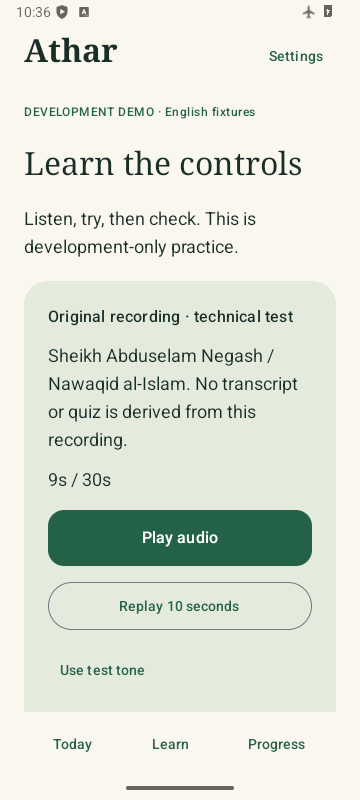
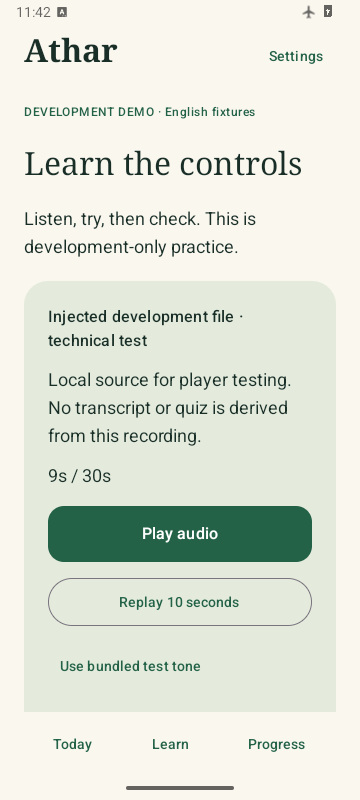
Honor selected local audio and isolate resume positions

diff --git a/app/src/main/java/dev/elm/prototype/MainActivity.kt b/app/src/main/java/dev/elm/prototype/MainActivity.kt
@@ -63,32 +63,58 @@ enum class Direction { Garden, Editorial }
  var feedback by rememberSaveable { mutableStateOf(false) }
  var busy by remember { mutableStateOf(false) }
  var error by remember { mutableStateOf<String?>(null) }
- var imported by remember { mutableStateOf(prefs.getString("audio-uri",null)) }
- var sourceAudio by rememberSaveable { mutableStateOf(prefs.getBoolean("source-audio", false)) }
+ val sourceFile=File(context.filesDir,"representative.mp3")
+ val audioStore=remember { AudioResumeStore(prefs) }
+ var imported by remember { mutableStateOf(audioStore.documentUri()) }
+ var activeSource by rememberSaveable { mutableStateOf(audioStore.selected(sourceFile.exists())) }
  var fullRecording by rememberSaveable { mutableStateOf(prefs.getBoolean("full-recording", false)) }
+ val sourceAudio=activeSource != AudioSource.Tone
+ var loadedKey by remember { mutableStateOf<String?>(null) }
+ var selectionRevision by remember { mutableIntStateOf(0) }
  val player=remember { ExoPlayer.Builder(context).build().apply { setAudioAttributes(AudioAttributes.Builder().setUsage(C.USAGE_MEDIA).setContentType(C.AUDIO_CONTENT_TYPE_SPEECH).build(), true); setHandleAudioBecomingNoisy(true) } }
  var playing by remember { mutableStateOf(false) }
  var position by remember { mutableLongStateOf(0L) }
  var duration by remember { mutableLongStateOf(0L) }
- val sourceFile=File(context.filesDir,"representative.mp3")
- val sourceUri=if(sourceFile.exists()) Uri.fromFile(sourceFile) else imported?.let { Uri.parse(it) }
- val launcher=rememberLauncherForActivityResult(ActivityResultContracts.OpenDocument()) { uri -> if(uri!=null) { try { context.contentResolver.takePersistableUriPermission(uri, Intent.FLAG_GRANT_READ_URI_PERMISSION); prefs.edit().putString("audio-uri",uri.toString()).commit(); imported=uri.toString(); sourceAudio=true; error=null } catch(e:Exception) { error="Audio access failed. Select the file again." } } }
+ val sourceUri=when(activeSource) {
+  AudioSource.Tone -> Uri.parse("asset:///neutral-tone.wav")
+  AudioSource.Document -> imported?.let(Uri::parse)
+  AudioSource.Representative -> if(sourceFile.exists()) Uri.fromFile(sourceFile) else null
+ }
+ val launcher=rememberLauncherForActivityResult(ActivityResultContracts.OpenDocument()) { uri -> if(uri!=null) { try { context.contentResolver.takePersistableUriPermission(uri, Intent.FLAG_GRANT_READ_URI_PERMISSION); audioStore.chooseDocument(uri.toString()); imported=uri.toString(); activeSource=AudioSource.Document; selectionRevision++; error=null } catch(e:Exception) { error="Audio access failed. Select the file again." } } }
  DisposableEffect(player) { val listener=object: Player.Listener {
   override fun onIsPlayingChanged(value:Boolean) { playing=value }
-  override fun onPlayerError(e: PlaybackException) { error="Audio could not be opened. Re-select the original or use the bundled test tone." }
+  override fun onPlayerError(e: PlaybackException) { error="Audio could not be opened. Re-select the local recording or use the bundled test tone." }
  }; player.addListener(listener); onDispose { player.removeListener(listener); player.release() } }
- LaunchedEffect(sourceAudio, imported, fullRecording) {
-  val uri=if(sourceAudio) sourceUri else Uri.parse("asset:///neutral-tone.wav")
-  if(uri!=null) { val item=MediaItem.Builder().setUri(uri).apply { if(sourceAudio && !fullRecording) setClippingConfiguration(MediaItem.ClippingConfiguration.Builder().setStartPositionMs(0).setEndPositionMs(30000).build()) }.build()
-   val mediaKey=uri.toString()+":"+fullRecording
-   val resume=if(prefs.getString("media-key",null)==mediaKey) prefs.getLong("audio-position",0) else 0
-   player.setMediaItem(item); player.prepare(); player.seekTo(resume); error=null
-   prefs.edit().putString("media-key",mediaKey).putBoolean("source-audio",sourceAudio).putBoolean("full-recording",fullRecording).commit()
+ LaunchedEffect(activeSource, imported, fullRecording, selectionRevision) {
+  audioStore.save(loadedKey, player.currentPosition)
+  player.pause()
+  // Resolve only the explicit selection. A missing grant/file must never play another source.
+  val uri=sourceUri
+  val accessible=try {
+   when(activeSource) {
+    AudioSource.Tone -> true
+    AudioSource.Document -> uri!=null && context.contentResolver.openFileDescriptor(uri,"r")?.use { true } == true
+    AudioSource.Representative -> sourceFile.isFile
+   }
+  } catch(_:Exception) { false }
+  if(uri==null || !accessible) {
+   player.clearMediaItems(); loadedKey=null; position=0; duration=0
+   error="Selected recording is unavailable. Select the local recording again."
+  } else {
+   val item=MediaItem.Builder().setUri(uri).apply {
+    if(sourceAudio && !fullRecording) setClippingConfiguration(
+     MediaItem.ClippingConfiguration.Builder().setStartPositionMs(0).setEndPositionMs(30000).build())
+   }.build()
+   val key=audioStore.key(activeSource,uri.toString(),fullRecording)
+   val resume=audioStore.position(key,uri.toString()+":"+fullRecording)
+   player.setMediaItem(item); player.prepare(); player.seekTo(resume)
+   loadedKey=key; error=null; audioStore.select(activeSource)
+   prefs.edit().putBoolean("full-recording",fullRecording).commit()
   }
  }
  LaunchedEffect(player) { while(true) { position=player.currentPosition; duration=player.duration.coerceAtLeast(0); delay(500) } }
  DisposableEffect(Unit) { val owner=context as ComponentActivity
-  val obs=androidx.lifecycle.LifecycleEventObserver { _,event -> if(event==androidx.lifecycle.Lifecycle.Event.ON_STOP) { prefs.edit().putLong("audio-position",player.currentPosition).commit(); player.pause() } }
+  val obs=androidx.lifecycle.LifecycleEventObserver { _,event -> if(event==androidx.lifecycle.Lifecycle.Event.ON_STOP) { audioStore.save(loadedKey,player.currentPosition); player.pause() } }
   owner.lifecycle.addObserver(obs); onDispose { owner.lifecycle.removeObserver(obs) }
  }
  val scroll=rememberScrollState()
@@ -109,14 +135,17 @@ enum class Direction { Garden, Editorial }
     "Lesson" -> {
      LessonHeader()
      Panel {
-      Text(if(sourceAudio) "Original recording · technical test" else "Bundled test tone · no speech",style=MaterialTheme.typography.titleMedium)
-      Note(if(sourceAudio) "Sheikh Abduselam Negash / Nawaqid al-Islam. No transcript or quiz is derived from this recording." else "A locally generated tone for offline player testing. No teaching content.")
+      Text(if(activeSource==AudioSource.Document) "Selected local recording · technical test" else if(activeSource==AudioSource.Representative) "Injected development file · technical test" else "Bundled test tone · no speech",style=MaterialTheme.typography.titleMedium)
+      Note(if(sourceAudio) "Local source for player testing. No transcript or quiz is derived from this recording." else "A locally generated tone for offline player testing. No teaching content.")
       Text("${position/1000}s / ${duration/1000}s")
-      Action(if(playing) "Pause audio" else "Play audio") { if(playing) { prefs.edit().putLong("audio-position",player.currentPosition).commit(); player.pause() } else { if(player.playbackState==Player.STATE_ENDED) player.seekTo(0); player.play() } }
+      Action(if(playing) "Pause audio" else "Play audio", loadedKey!=null) { if(playing) { audioStore.save(loadedKey,player.currentPosition); player.pause() } else { if(player.playbackState==Player.STATE_ENDED) player.seekTo(0); player.play() } }
       OutlinedButton(onClick={player.seekTo((player.currentPosition-10000).coerceAtLeast(0))},modifier=Modifier.fillMaxWidth().heightIn(min=48.dp)) { Text("Replay 10 seconds") }
-      if(sourceUri!=null) TextButton(onClick={sourceAudio=!sourceAudio; fullRecording=false}) { Text(if(sourceAudio) "Use test tone" else "Use original audio") }
+      TextButton(onClick={activeSource=AudioSource.Tone}) { Text("Use bundled test tone") }
+      if(imported!=null) TextButton(onClick={activeSource=AudioSource.Document}) { Text("Use selected local recording") }
+      if(sourceFile.isFile) TextButton(onClick={activeSource=AudioSource.Representative}) { Text("Development: use injected file") }
+      if(loadedKey==null && sourceAudio) TextButton(onClick={selectionRevision++}) { Text("Retry selected recording") }
       TextButton(onClick={launcher.launch(arrayOf("audio/*"))}) { Text("Select local recording") }
-      if(sourceAudio) { Note(if(fullRecording) "Full original recording" else "Technical range 00:00–00:30 · boundary unreviewed; not a study segment."); TextButton(onClick={fullRecording=!fullRecording}) { Text(if(fullRecording) "Test timestamp range" else "Open full original") } }
+      if(sourceAudio) { Note(if(fullRecording) "Full selected recording" else "Technical range 00:00–00:30 · boundary unreviewed; not a study segment."); TextButton(onClick={fullRecording=!fullRecording}) { Text(if(fullRecording) "Test timestamp range" else "Open full recording") } }
      }
      Note("Fixture note: Play starts audio. Pause stops it temporarily. Replay moves back ten seconds.")
      Action("Try practice questions") { q=0;selected=-1;feedback=false;page="Review" }

diff --git a/app/src/main/java/dev/elm/prototype/AudioResumeStore.kt b/app/src/main/java/dev/elm/prototype/AudioResumeStore.kt
@@ -1,0 +1,43 @@
+package dev.elm.prototype
+
+import android.content.SharedPreferences
+import java.security.MessageDigest
+
+enum class AudioSource { Tone, Document, Representative }
+
+/** Selection is independent of an injected representative file. Positions belong to a
+ * recording identity and playback mode, so a full source never inherits a clipped offset. */
+class AudioResumeStore(private val prefs: SharedPreferences) {
+    fun selected(representativeExists: Boolean): AudioSource {
+        val saved = prefs.getString("active-audio-source", null)
+        if (saved != null) return AudioSource.entries.firstOrNull { it.name == saved } ?: AudioSource.Tone
+        // Migrate the prototype preference once. A selected document wins over test injection.
+        return if (prefs.getBoolean("source-audio", false)) {
+            if (documentUri() != null) AudioSource.Document
+            else if (representativeExists) AudioSource.Representative
+            else AudioSource.Tone
+        } else AudioSource.Tone
+    }
+    fun documentUri(): String? = prefs.getString("audio-uri", null)
+    fun select(source: AudioSource) {
+        prefs.edit().putString("active-audio-source", source.name).commit()
+    }
+    fun chooseDocument(uri: String) {
+        prefs.edit().putString("audio-uri", uri).putString("active-audio-source", AudioSource.Document.name).commit()
+    }
+    fun key(source: AudioSource, identity: String, full: Boolean): String {
+        val bytes = MessageDigest.getInstance("SHA-256")
+            .digest("${source.name}|$identity|${if (full) "full" else "range"}".toByteArray(Charsets.UTF_8))
+        return bytes.joinToString("") { "%02x".format(it) }
+    }
+    fun position(key: String, legacyMediaKey: String): Long {
+        val stored = prefs.getLong("resume-$key", Long.MIN_VALUE)
+        if (stored != Long.MIN_VALUE) return stored.coerceAtLeast(0)
+        // Preserve the old single-source offset only for the exact prior media key.
+        return if (prefs.getString("media-key", null) == legacyMediaKey)
+            prefs.getLong("audio-position", 0).coerceAtLeast(0) else 0
+    }
+    fun save(key: String?, position: Long) {
+        if (key != null) prefs.edit().putLong("resume-$key", position.coerceAtLeast(0)).commit()
+    }
+}

diff --git a/app/src/androidTest/java/dev/elm/prototype/AudioResumeStoreTest.kt b/app/src/androidTest/java/dev/elm/prototype/AudioResumeStoreTest.kt
@@ -1,0 +1,34 @@
+package dev.elm.prototype
+
+import androidx.test.ext.junit.runners.AndroidJUnit4
+import androidx.test.platform.app.InstrumentationRegistry
+import org.junit.Assert.*
+import org.junit.Test
+import org.junit.runner.RunWith
+
+@RunWith(AndroidJUnit4::class)
+class AudioResumeStoreTest {
+    @Test fun explicitSelectionAndPositionsSurviveStoreRecreation() {
+        val context = InstrumentationRegistry.getInstrumentation().targetContext
+        val prefs = context.getSharedPreferences("audio-resume-test", 0)
+        prefs.edit().clear().commit()
+        val first = AudioResumeStore(prefs)
+        val injected = first.key(AudioSource.Representative, "file:///representative.mp3", false)
+        val documentA = first.key(AudioSource.Document, "content://local/one", false)
+        val documentB = first.key(AudioSource.Document, "content://local/two", false)
+        val fullA = first.key(AudioSource.Document, "content://local/one", true)
+        assertEquals(4, setOf(injected, documentA, documentB, fullA).size)
+        first.save(injected, 2400)
+        first.save(documentA, 8500)
+        first.save(fullA, 17000)
+        first.chooseDocument("content://local/one")
+        val reopened = AudioResumeStore(prefs)
+        assertEquals(AudioSource.Document, reopened.selected(true))
+        assertEquals("content://local/one", reopened.documentUri())
+        assertEquals(8500, reopened.position(documentA, "unused"))
+        assertEquals(17000, reopened.position(fullA, "unused"))
+        assertEquals(0, reopened.position(documentB, "unused"))
+        assertEquals(2400, reopened.position(injected, "unused"))
+        prefs.edit().clear().commit()
+    }
+}

diff --git a/scripts/verify_prototype.py b/scripts/verify_prototype.py
@@ -60,16 +60,17 @@ if not a.start_at_source:
 # Representative original: copy, never edit original; private debug app storage only
 adb('shell','cmd','connectivity','airplane-mode','enable')
 config=json.loads((root/'.local/audio.json').read_text()); source=pathlib.Path(config['recordingsRoot'])/config['representative']
-adb('push',str(source),'/data/local/tmp/athar-representative.mp3');adb('shell','run-as',pkg,'cp','/data/local/tmp/athar-representative.mp3','files/representative.mp3');adb('shell','rm','/data/local/tmp/athar-representative.mp3');adb('shell','am','force-stop',pkg);launch();tap('Learn');tap('Open lesson')
-if has('Use test tone'): tap('Use test tone')
-tap('Use original audio');tap('Play audio');time.sleep(3);check(position()[0]>0 and position()[1]==30,'Original MP3 timestamp range plays offline');pause();tree('source-range');shot('source-range');tap('Open full original');top();tap('Play audio');time.sleep(2);check(position()[1]>30,'Full original is available');pause();before=position()[0];adb('shell','am','force-stop',pkg);launch();tap('Learn');tap('Open lesson');check(position()[0]>=before,'Original audio position resumes after restart');tree('source-resumed');shot('source-resumed')
+adb('push',str(source),'/data/local/tmp/athar-representative.mp3');adb('shell','run-as',pkg,'mkdir','-p','files');adb('shell','run-as',pkg,'cp','/data/local/tmp/athar-representative.mp3','files/representative.mp3');adb('shell','rm','/data/local/tmp/athar-representative.mp3');adb('shell','am','force-stop',pkg);launch();tap('Learn');tap('Open lesson')
+tap('Development: use injected file');
+if has('Test timestamp range'): tap('Test timestamp range')
+top();tap('Replay 10 seconds');tap('Play audio');time.sleep(3);check(position()[0]>0 and position()[1]==30,'Original MP3 timestamp range plays offline');pause();tree('source-range');shot('source-range');tap('Open full recording');top();tap('Play audio');time.sleep(2);check(position()[1]>30,'Full original is available');pause();before=position()[0];adb('shell','am','force-stop',pkg);launch();tap('Learn');tap('Open lesson');check(position()[0]>=before,'Original audio position resumes after restart');tree('source-resumed');shot('source-resumed')
 # Enlarged text, reduced motion and scripts
 adb('shell','settings','put','system','font_scale','1.5')
 for key in ['animator_duration_scale','transition_animation_scale','window_animation_scale']: adb('shell','settings','put','global',key,'0')
 adb('shell','am','force-stop',pkg);launch();tree('large-text-today');shot('large-text-today');tap('Settings');tree('script-test-large');shot('script-test-large')
 if not has('ا ب ت ث ج ح خ'): adb('shell','input','swipe','180','600','180','200','350')
 tree('script-test-large');shot('script-test-large');check(has('ሀ ሁ ሂ ሃ ሄ ህ ሆ'),'Ethiopic glyph fixture present in UI');check(has('ا ب ت ث ج ح خ'),'Arabic glyph fixture present in UI')
-tap('Back to Today');tap('Revisit practice');tap('Open lesson');tap('Try practice questions');tap('Pause audio');tap('Check answer');tap('Next question');tap('Finish lesson');tap('Check answer');tap('Finish lesson');check(has('Completion saved'),'Complete flow operable with 150% text and animations disabled');tree('large-text-completed');shot('large-text-completed')
+tap('Back to Today');tap('Revisit practice' if has('Revisit practice') else 'Begin practice');tap('Open lesson');tap('Try practice questions');tap('Pause audio');tap('Check answer');tap('Next question');tap('Finish lesson');tap('Check answer');tap('Finish lesson');check(has('Completion saved'),'Complete flow operable with 150% text and animations disabled');tree('large-text-completed');shot('large-text-completed')
 adb('shell','settings','put','system','font_scale','1.0');adb('shell','cmd','connectivity','airplane-mode','disable')
 for key in ['animator_duration_scale','transition_animation_scale','window_animation_scale']: adb('shell','settings','put','global',key,'1')
 summary={'scope':'source-and-accessibility' if a.start_at_source else 'complete','device':adb('shell','getprop','ro.product.model').strip(),'android':adb('shell','getprop','ro.build.version.release').strip(),'display':adb('shell','wm','size').strip(),'checks':results}

diff --git a/evidence/milestone2-audio.md b/evidence/milestone2-audio.md
@@ -1,0 +1,14 @@
+# Milestone 2 audio selection verification · 1 October 2026
+
+Branch: fix/local-audio-selection. Isolated ElmPrototype Android 16/API 36 x86_64 emulator, 360×800, 160 dpi. The emulator runs without audible output; decoder/timeline behavior was checked, not sound quality.
+
+- `assembleDebug lintDebug testDebugUnitTest connectedDebugAndroidTest` passed. The committed connected test checks explicit Document selection, restart persistence of the stored mode/URI, and distinct position keys for representative/document A/document B and full/range modes.
+- Local-only generated neutral 440 Hz and 660 Hz WAV files, each six seconds and 192,044 bytes, were put in emulator Downloads. The injected `representative.mp3` was also present in private app storage (copied from the inventoried source, never edited or committed). Through Android OpenDocument, choosing a-440.wav showed `0s / 6s` rather than the representative's 30-second technical clip. Choosing b-660.wav persisted a `content://.../b-660.wav` URI and active mode `Document`; playback advanced to `2s / 6s`.
+- After force-stop/reopen, the selected document reopened and its position showed `2s / 6s`. This exercises persisted read access and source-specific resume. Switching between source identities is separately covered by the connected test.
+- Removing only the generated b-660.wav emulator copy and restarting produced `Selected recording is unavailable. Select the local recording again.` and `0s / 0s`; no representative fallback occurred. Restoring the neutral file and choosing a-440.wav through the picker cleared the error.
+- A temporary isolated-emulator instrumentation test released the persisted read grant and confirmed it was absent from `persistedUriPermissions` (3 tests passed, 0 skipped). It was removed afterward because routine tests must not revoke a learner's file. End-to-end UI after grant revocation was not observed because the connected test runner uninstalled its target app. The runtime uses the same open-file failure path exercised by the missing-file case.
+- The original source recording folder was read/copied for test injection only. No original was modified, moved, committed, or uploaded. The neutral WAVs and temporary automation script remain ignored under `.local`.
+
+Foreground-only playback and unreviewed technical clipping remain explicit. Physical-device sound quality, interruptions, and headphones remain unverified.
+
+The updated non-resetting source/accessibility verifier passed all six checks after making range mode and fresh-profile navigation explicit. Its machine-readable result is evidence/verification.json; source and large-text captures are in evidence/. Emulator settings were restored by the verifier.

diff --git a/docs/ARCHITECTURE.md b/docs/ARCHITECTURE.md
@@ -12,3 +12,11 @@ Audio sources: 12s neutral tone in assets, read-only document URI permission, or
 Guest storage has no backup/sync; allowBackup=false. App removal/data clear removes progress. Future repositories can synchronize approved packs and per-user events without making UI depend on a network. Download, bookmark, concept review state and daily-study/streak tables remain milestone 2; content/publication metadata remains independent of presentation.
 
 Production work still requires reviewed content, a real Tigrinya localization, audio focus/interruption checks, scoped publishing/auth rules if added, migration/backup design and prelaunch Sheikh review.
+
+## Milestone 2 audio selection and timeline
+
+The active source is explicitly Tone, Document, or Representative. Selecting a document through Android OpenDocument takes a persisted read grant and selects that exact URI. The private representative file is a deliberate development option; its presence cannot override a selected document. If the active URI is missing or access is revoked, the player clears media and asks for reselection without falling back. No broad storage permission is requested.
+
+Resume keys include source kind, URI identity, and mode (full or technical range). Switching saves the old key before loading the next, and positions survive normal process restart. The prototype's old single-offset preference is read only when its exact media key matches. Media3 clipping presents a segment-relative player timeline: for a segment with source start `S`, full-recording source time is `S + playerPosition`; in full mode source time equals `playerPosition`. The current development technical range starts at 0 ms and ends at 30,000 ms or the file's earlier end. Its boundaries are unreviewed and are not teaching segments.
+
+Playback remains foreground-only; backgrounding saves position and pauses. This test covered emulator decoding and positions, not audible quality, headphones, or interruptions on physical hardware.

diff --git a/docs/STATUS.md b/docs/STATUS.md
@@ -1,7 +1,7 @@
 # Milestone 1 status · 1 October 2026
 
 ## Outcome
-First runnable Athar native Android prototype implemented and verified. App source commit c9a994ff779b998d12bfaed0addbf20696a67e12; CI setup fix 933f741. Final evidence/documentation revision is reviewed and must pass latest CI before normal PR merge. Branch feat/android-prototype; PR https://github.com/darkest-pearl/Athar/pull/1. Actual merge SHA and main synchronization are reported in the session handoff, not assumed here.
+First runnable Athar native Android prototype implemented and verified. App source commit c9a994ff779b998d12bfaed0addbf20696a67e12; CI setup fix 933f741. PR #1 (https://github.com/darkest-pearl/Athar/pull/1) merged as c49c015940c22a0c33d774a22319ca945c61600f; main CI run 36826407912 passed. Milestone 2 validator PR #2 merged as 7df1270; post-merge main CI run 36829085556 passed. The current milestone is continuing on separate task branches.
 
 Baseline main ff63889 was reviewed and pushed to darkest-pearl/Athar. The remote was initially empty. Configured Git identity was unchanged. No main protection or active branch rules reported by GitHub API. Workflow is persisted in AGENTS.md and Athar_Development_Cycle_Prompt.md. Athar is the confirmed name; original Elm briefs are preserved historical inputs. dev.elm.prototype remains a development package placeholder.
 

diff --git a/docs/PRODUCT.md b/docs/PRODUCT.md
@@ -7,6 +7,6 @@ Milestone 1 acceptance: open a course and lesson, play local audio, answer a sma
 
 Milestone 2: approved small content pack, bookmarks, durable concept review, meaningful study days, streaks with injectable clock, download state and audio restoration. These are not all implemented in milestone 1.
 
-Curriculum sequence is proposed, not decided. Nawaqid al-Islam is an intake candidate, not automatically the beginner course. Confirm exact al-Sa‘di book before assigning Bab al-Taharah. No public package, final visual branding, monetization, account service or remote repository chosen.
+Curriculum sequence is proposed, not decided. Nawaqid al-Islam is an intake candidate, not automatically the beginner course. Confirm exact al-Sa‘di book before assigning Bab al-Taharah. No public package, final visual branding, monetization, or account service chosen. The source repository is https://github.com/darkest-pearl/Athar.
 
 Pilot acceptance needs Tigrinya-speaking learners, enlarged text, small/large phones, TalkBack and source review. No claims of learning efficacy from demo completion.
